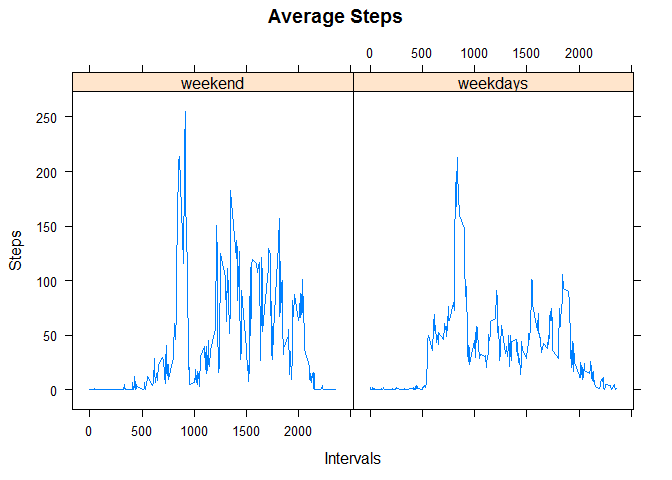
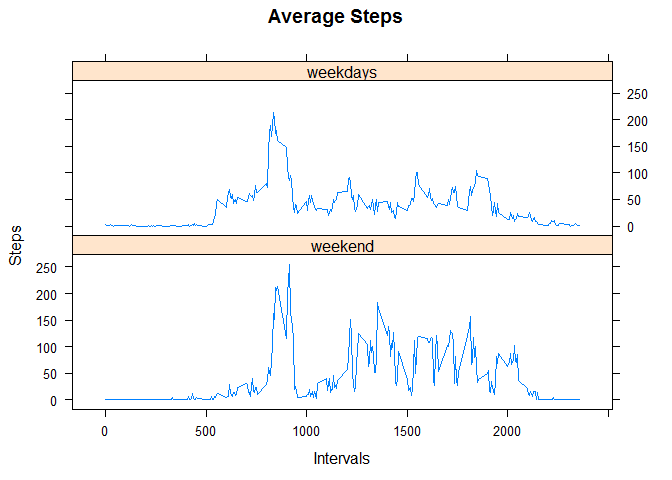
Updated layout of Weekdays vs Weekends

diff --git a/PA1_template.html b/PA1_template.html
@@ -337,11 +337,16 @@ awca &lt;- aggregate(wca$steps, by=list(interval = wca$interval, weekend = wca$w
 
 # Draw
 library(&quot;lattice&quot;)
-xyplot(x~interval|weekend, data=awca,
+# par(mfrow=c(2,1))
+p &lt;- xyplot(x~interval|weekend, data=awca,
     main=&quot;Average Steps&quot;,
     xlab=&quot;Intervals&quot;,
-    ylab=&quot;Steps&quot;, type=&quot;l&quot;)</code></pre>
[1 lines of base64/hex data omitted]
+    ylab=&quot;Steps&quot;, type=&quot;l&quot;)
+update(p, layout=c(1,2))</code></pre>
[1 lines of base64/hex data omitted]
+<pre class="r"><code>dev.off()</code></pre>
+<pre><code>## null device 
+##           1</code></pre>
 </div>
 
 

diff --git a/PA1_template.md b/PA1_template.md
@@ -341,10 +341,21 @@ awca <- aggregate(wca$steps, by=list(interval = wca$interval, weekend = wca$week
 
 # Draw
 library("lattice")
-xyplot(x~interval|weekend, data=awca,
+# par(mfrow=c(2,1))
+p <- xyplot(x~interval|weekend, data=awca,
     main="Average Steps",
     xlab="Intervals",
     ylab="Steps", type="l")
+update(p, layout=c(1,2))
 ```
 
 ![](PA1_template_files/figure-html/unnamed-chunk-12-1.png) 
+
+```r
+dev.off()
+```
+
+```
+## null device 
+##           1
+```
